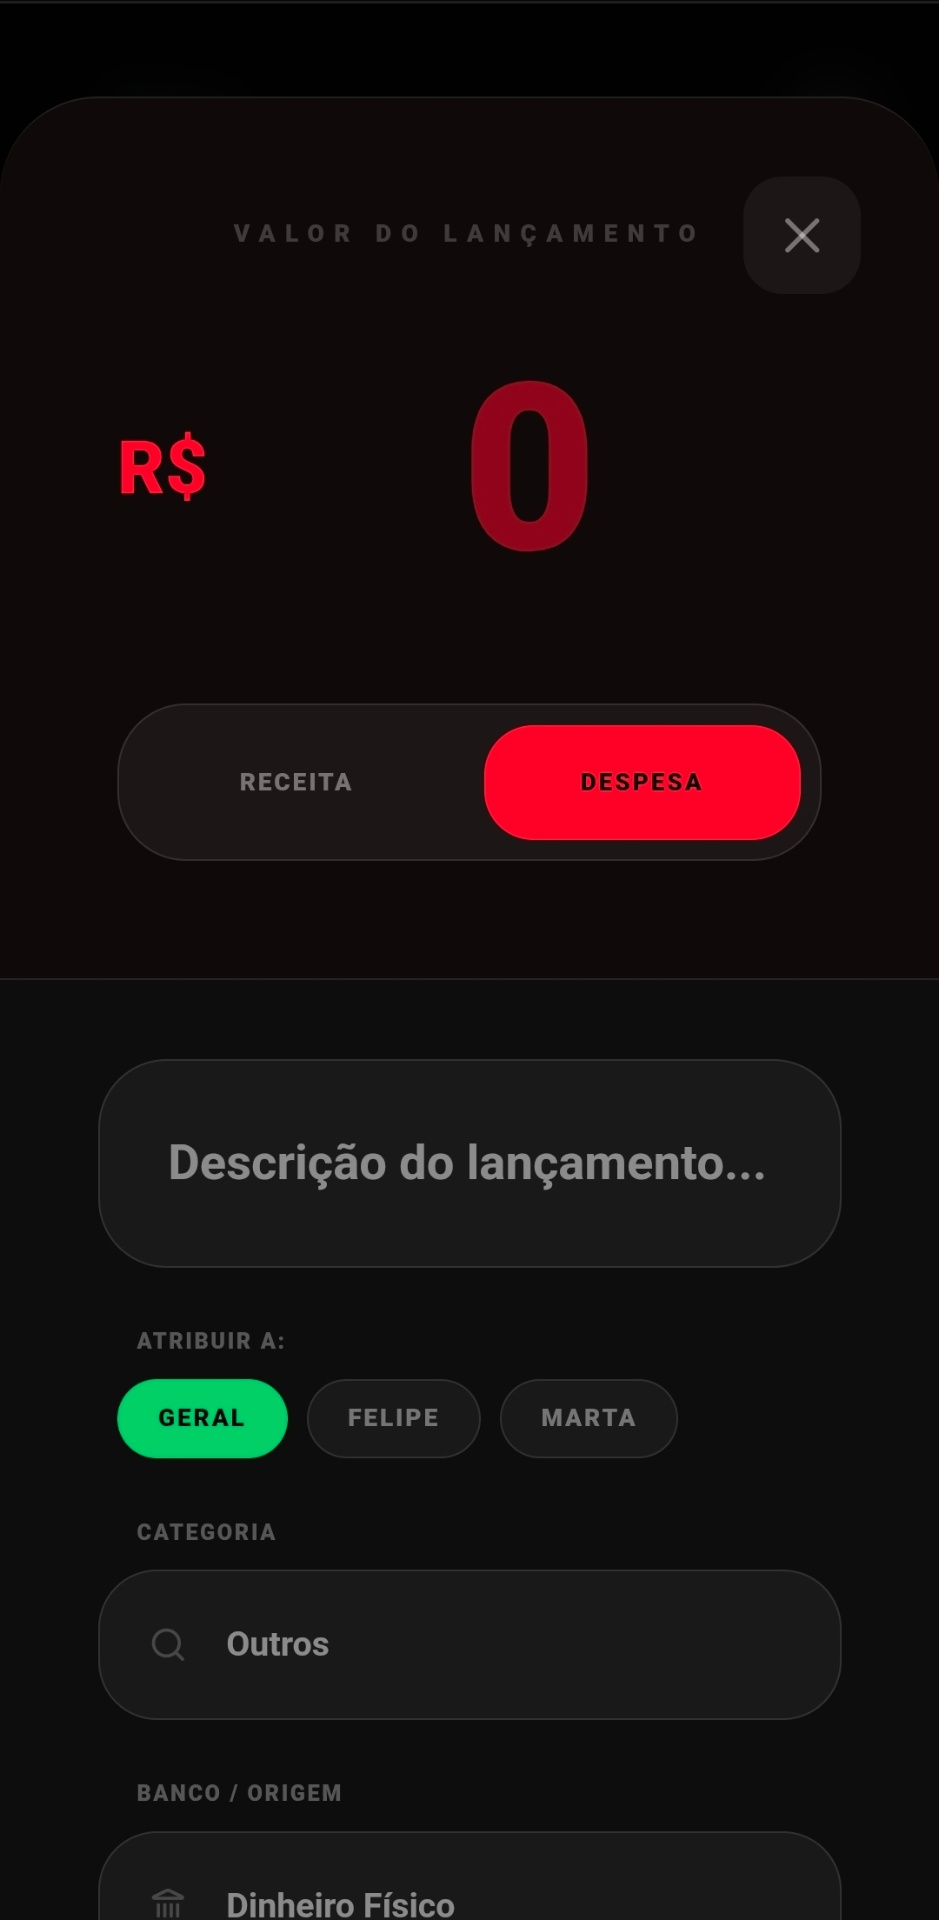
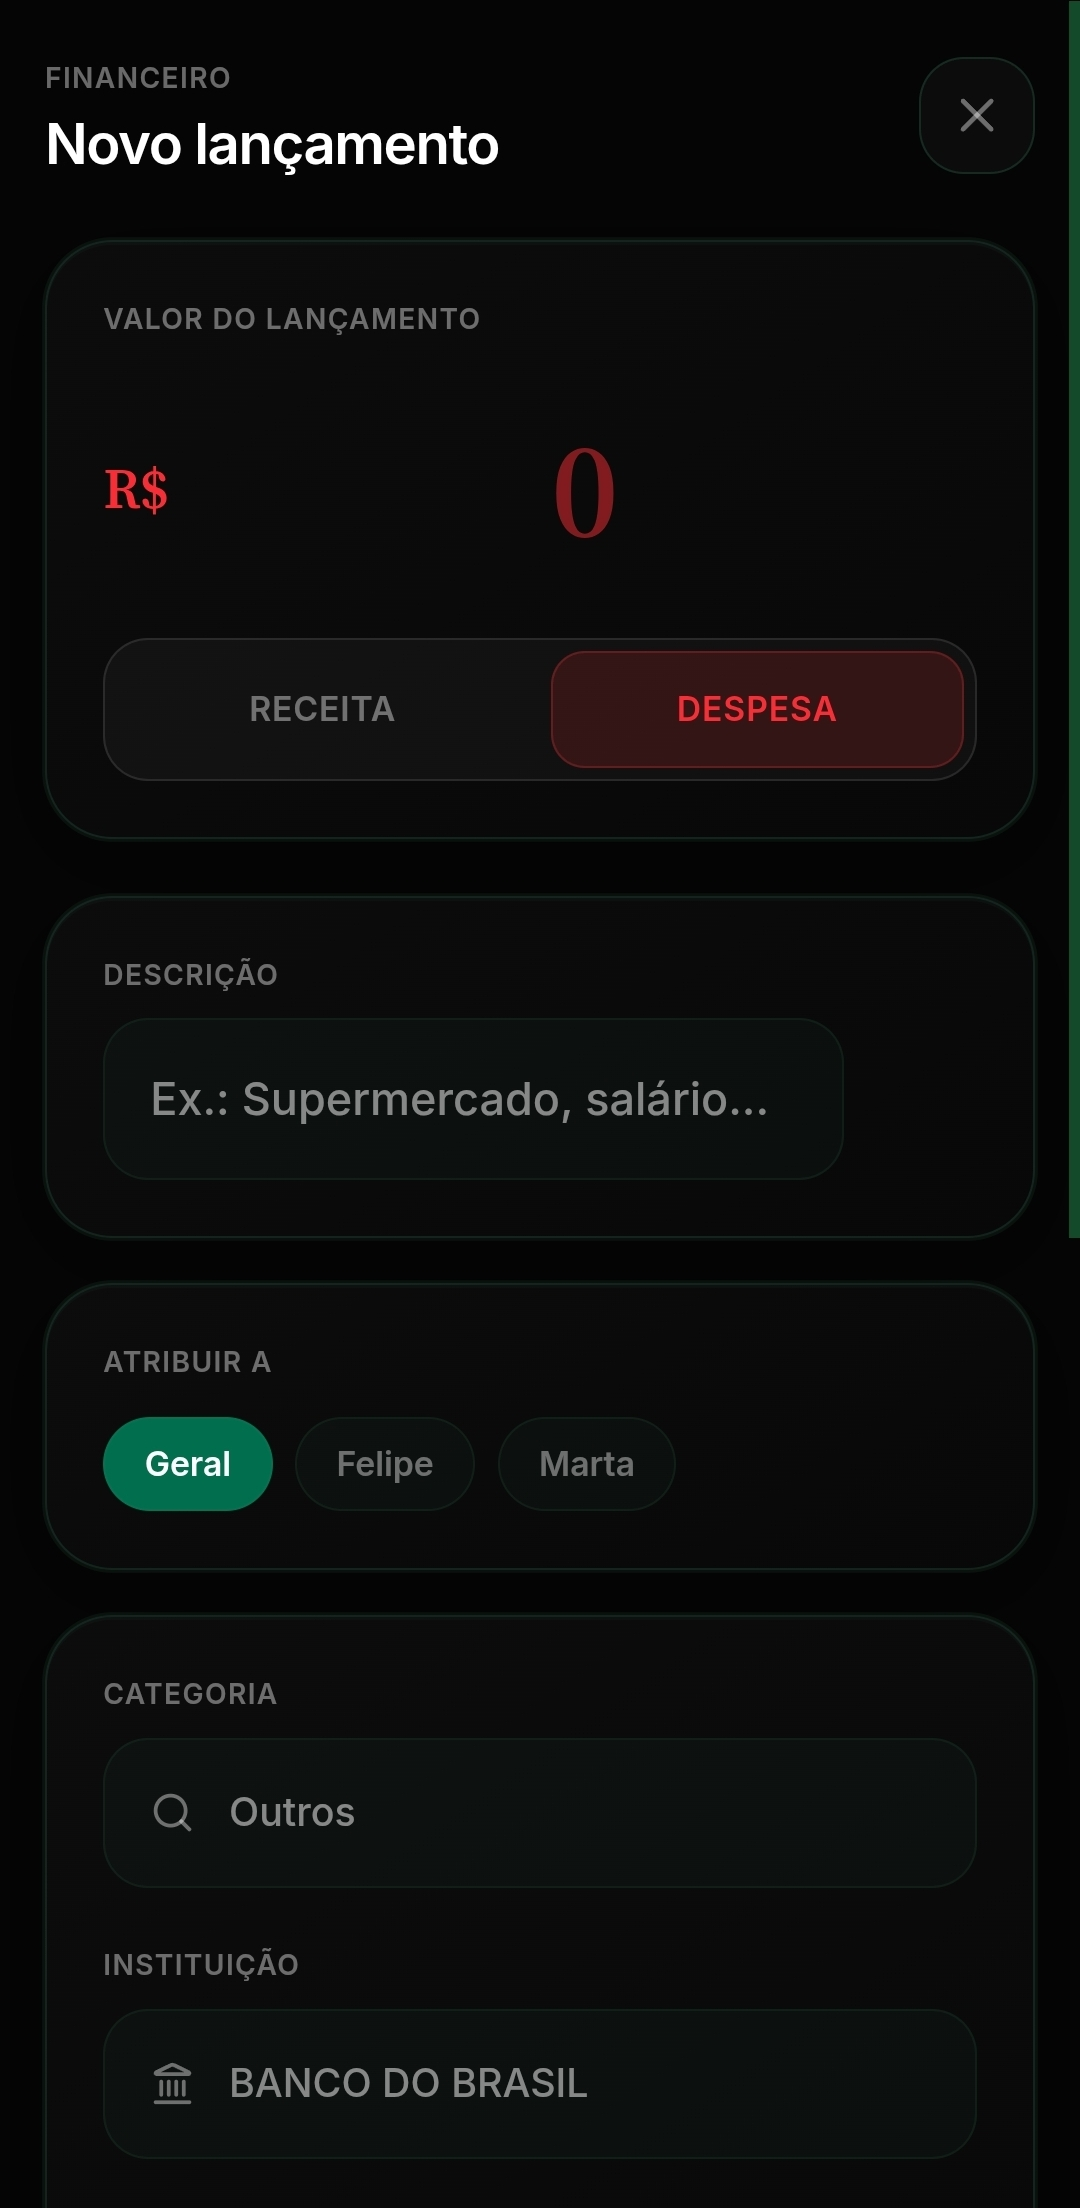
pvnew

diff --git a/src/App.tsx b/src/App.tsx
@@ -6,8 +6,61 @@ import {
   Smartphone, 
   Lock,
   Sparkles,
-  BarChart3
+  BarChart3,
+  Calendar,
+  ListChecks,
+  Layers
 } from "lucide-react";
+
+type IPhoneMockupProps = {
+  src: string;
+  alt: string;
+  priority?: boolean;
+  tilt?: 'left' | 'right' | 'none';
+};
+
+function IPhoneMockup({ src, alt, priority = false, tilt = 'none' }: IPhoneMockupProps) {
+  const tiltClass =
+    tilt === 'left'
+      ? '-rotate-2 sm:-rotate-[4deg] md:-rotate-[6deg]'
+      : tilt === 'right'
+        ? 'rotate-2 sm:rotate-[4deg] md:rotate-[6deg]'
+        : '';
+
+  return (
+    <div
+      className={`relative mx-auto w-full max-w-[220px] sm:max-w-[260px] md:max-w-[280px] ${tiltClass} transition-transform duration-300 hover:rotate-0`}
+    >
+      <div
+        className="absolute inset-6 sm:inset-8 rounded-[40px] bg-[#22C55E]/[0.07] blur-2xl pointer-events-none"
+        aria-hidden
+      />
+      <div className="relative rounded-[42px] sm:rounded-[44px] p-[2px] bg-gradient-to-b from-[#454545] via-[#1c1c1c] to-[#080808] shadow-[0_28px_56px_-14px_rgba(0,0,0,0.85)]">
+        <div className="rounded-[40px] sm:rounded-[42px] bg-[#050505] p-[9px] sm:p-[10px] border border-white/[0.07]">
+          <div className="relative rounded-[30px] sm:rounded-[32px] overflow-hidden bg-[#050505] aspect-[9/19.5]">
+            <div
+              className="absolute top-2.5 sm:top-3 left-1/2 -translate-x-1/2 z-20 w-[32%] max-w-[100px] h-[22px] sm:h-[26px] bg-[#050505] rounded-full border border-white/[0.08] shadow-[inset_0_1px_2px_rgba(255,255,255,0.06)]"
+              aria-hidden
+            />
+            <img
+              src={src}
+              alt={alt}
+              width={390}
+              height={844}
+              className="w-full h-full object-cover object-top"
+              loading={priority ? 'eager' : 'lazy'}
+              decoding="async"
+              {...(priority ? { fetchPriority: 'high' as const } : { fetchPriority: 'low' as const })}
+            />
+          </div>
+        </div>
+        <div className="absolute -right-[2px] top-[26%] w-[3px] h-[11%] bg-[#2a2a2a] rounded-r-sm opacity-80" aria-hidden />
+        <div className="absolute -left-[2px] top-[20%] w-[3px] h-[7%] bg-[#2a2a2a] rounded-l-sm opacity-60" aria-hidden />
+        <div className="absolute -left-[2px] top-[30%] w-[3px] h-[11%] bg-[#2a2a2a] rounded-l-sm opacity-60" aria-hidden />
+      </div>
+    </div>
+  );
+}
 
 export default function App() {
   const [currentPage, setCurrentPage] = useState<'vendas' | 'obrigado'>('vendas');
@@ -188,12 +241,12 @@ export default function App() {
             <span className="text-[9px] sm:text-[10px] font-extrabold uppercase tracking-widest text-white/80">Seu Consultor Estratégico IA 24h</span>
           </div>
           
-          <h1 className="text-3xl sm:text-5xl font-extrabold uppercase tracking-tight text-white leading-[1.2] mb-6 max-w-3xl mx-auto">
-            Saiba se sua empresa está lucrando ou se você está <span className="text-[#22C55E]">pagando para trabalhar</span> em menos de 1 minuto.
+          <h1 className="text-2xl sm:text-4xl md:text-5xl font-extrabold uppercase tracking-tight text-white leading-[1.2] mb-6 max-w-3xl mx-auto">
+            O Sistema Operacional do Empreendedor: <span className="text-[#22C55E]">Finanças, Rotinas e Agenda</span> em um único lugar.
           </h1>
           
           <p className="text-xs sm:text-sm text-muted-foreground max-w-xl mx-auto mb-8 sm:mb-10 font-medium leading-relaxed">
-            O Sommar processa seus extratos automaticamente, separa o CPF do CNPJ e te entrega o lucro real. <span className="text-[#22C55E]">Sem planilhas, sem erros e sem perda de tempo.</span>
+            Pare de alternar entre apps de banco, agenda e tarefas. O Sommar centraliza sua rotina, separa CPF do CNPJ e te entrega o lucro real — <span className="text-[#22C55E]">sem planilhas, sem erros e sem perda de tempo.</span>
           </p>
 
           {/* VÍDEO DE DEMONSTRAÇÃO COMPATÍVEL MOBILE */}
@@ -201,7 +254,7 @@ export default function App() {
             <div className="relative w-full pb-[56.25%] h-0 rounded-xl overflow-hidden">
               <iframe 
                 className="absolute top-0 left-0 w-full h-full border-0"
-                src="https://www.youtube.com/embed/YfYAfW8kFO4" 
+                src="https://youtu.be/2jtToi2wIps?si=0MYdkyZNUdvxsjRQ" 
                 title="Vídeo de demonstração Sommar App"
                 allow="accelerometer; autoplay; clipboard-write; encrypted-media; gyroscope; picture-in-picture; web-share" 
                 allowFullScreen
@@ -269,11 +322,7 @@ export default function App() {
               </button>
             </div>
             
-            {/* MOCK CELULAR 1 */}
-            <div className="relative mx-auto w-full max-w-[280px] h-[560px] bg-[#000] border-[10px] border-[#1a1a1a] rounded-[40px] shadow-2xl card-glow overflow-hidden">
-              <div className="absolute top-0 left-1/2 -translate-x-1/2 w-32 h-6 bg-[#1a1a1a] rounded-b-2xl z-20"></div>
-              <img src="/lancar-sommar.jpg" alt="Interface de Lançamentos Sommar" className="w-full h-full object-cover rounded-[30px]" />
-            </div>
+            <IPhoneMockup src="/lancar-sommar.jpg" alt="Interface de Lançamentos Sommar" tilt="right" />
           </div>
         </section>
 
@@ -345,11 +394,7 @@ export default function App() {
               </button>
             </div>
             
-            {/* MOCK CELULAR 2 */}
-            <div className="relative mx-auto w-full max-w-[280px] h-[560px] bg-[#000] border-[10px] border-[#1a1a1a] rounded-[40px] shadow-2xl card-glow overflow-hidden">
-              <div className="absolute top-0 left-1/2 -translate-x-1/2 w-32 h-6 bg-[#1a1a1a] rounded-b-2xl z-20"></div>
-              <img src="/marinho-sommar.jpg" alt="Assistente Virtual Marinho Inteligência Financeira" className="w-full h-full object-cover rounded-[30px]" />
-            </div>
+            <IPhoneMockup src="/marinho-sommar.jpg" alt="Assistente Virtual Marinho Inteligência Financeira" tilt="left" />
           </div>
         </section>
 
@@ -395,10 +440,136 @@ export default function App() {
               </button>
             </div>
             
-            {/* MOCK CELULAR 3 */}
-            <div className="relative mx-auto w-full max-w-[280px] h-[560px] bg-[#000] border-[10px] border-[#1a1a1a] rounded-[40px] shadow-2xl card-glow overflow-hidden">
-              <div className="absolute top-0 left-1/2 -translate-x-1/2 w-32 h-6 bg-[#1a1a1a] rounded-b-2xl z-20"></div>
-              <img src="/resumo-sommar.jpg" alt="Análise de Dados Gráficos Finanças" className="w-full h-full object-cover rounded-[30px]" />
+            <IPhoneMockup src="/resumo-sommar.jpg" alt="Análise de Dados Gráficos Finanças" tilt="right" />
+          </div>
+        </section>
+
+        {/* ECOSSISTEMA SOMMAR — ROTINAS & COMPROMISSOS */}
+        <section className="border-t border-b border-border/40 bg-[#050505] py-20 px-4">
+          <div className="max-w-4xl mx-auto">
+            <div className="text-center max-w-2xl mx-auto mb-16">
+              <span className="text-[10px] font-extrabold text-[#22C55E] border border-[#22C55E]/20 bg-[#22C55E]/5 px-3 py-1 rounded-full uppercase tracking-widest inline-flex items-center gap-1.5">
+                <Layers className="w-3 h-3" /> Ecossistema Sommar
+              </span>
+              <h2 className="text-2xl sm:text-3xl font-extrabold text-white uppercase tracking-tight mt-4">
+                Um só app. <span className="text-[#22C55E]">Toda a sua operação.</span>
+              </h2>
+              <p className="text-xs sm:text-sm text-muted-foreground mt-3 leading-relaxed font-medium">
+                Você não precisa de três ferramentas diferentes. Finanças, rotinas e agenda vivem no mesmo sistema — o sistema operacional da sua rotina.
+              </p>
+            </div>
+
+            {/* Rotinas — Consistência */}
+            <div className="grid md:grid-cols-2 gap-10 md:gap-14 items-center mb-20 md:mb-24">
+              <div className="order-2 md:order-1 space-y-4 text-center md:text-left">
+                <div className="inline-flex items-center gap-2 px-3 py-1.5 rounded-lg border border-border bg-[#050505] text-[#22C55E]">
+                  <ListChecks className="w-4 h-4" strokeWidth={1.75} />
+                  <span className="text-[10px] font-extrabold uppercase tracking-widest">Rotinas</span>
+                </div>
+                <h3 className="text-xl sm:text-2xl font-extrabold text-white uppercase tracking-tight">
+                  <span className="text-[#22C55E]">Consistência</span> que vira resultado
+                </h3>
+                <p className="text-xs sm:text-sm text-muted-foreground leading-relaxed font-medium max-w-md mx-auto md:mx-0">
+                  Não é sobre trabalhar mais, é sobre fazer o que importa. Gerencie suas tarefas diárias com a mesma precisão do seu financeiro.
+                </p>
+              </div>
+              <div className="order-1 md:order-2 flex justify-center md:justify-end px-2 sm:px-0">
+                <IPhoneMockup
+                  src="/rotinas-sommar.jpg"
+                  alt="Módulo de Rotinas Sommar App"
+                  tilt="right"
+                />
+              </div>
+            </div>
+
+            {/* Compromissos — Controle */}
+            <div className="grid md:grid-cols-2 gap-10 md:gap-14 items-center">
+              <div className="flex justify-center md:justify-start px-2 sm:px-0">
+                <IPhoneMockup
+                  src="/compromissos-sommar.jpg"
+                  alt="Módulo de Compromissos e Agenda Sommar App"
+                  tilt="left"
+                />
+              </div>
+              <div className="space-y-4 text-center md:text-left">
+                <div className="inline-flex items-center gap-2 px-3 py-1.5 rounded-lg border border-border bg-[#050505] text-[#22C55E]">
+                  <Calendar className="w-4 h-4" strokeWidth={1.75} />
+                  <span className="text-[10px] font-extrabold uppercase tracking-widest">Compromissos</span>
+                </div>
+                <h3 className="text-xl sm:text-2xl font-extrabold text-white uppercase tracking-tight">
+                  <span className="text-[#22C55E]">Controle</span> total do seu tempo
+                </h3>
+                <p className="text-xs sm:text-sm text-muted-foreground leading-relaxed font-medium max-w-md mx-auto md:mx-0">
+                  Seu tempo é seu maior ativo. Centralize sua agenda e nunca mais perca um prazo ou oportunidade de negócio.
+                </p>
+                <button
+                  onClick={scrollToPricing}
+                  className="w-full sm:w-auto inline-flex items-center justify-center gap-2 bg-gradient-to-r from-[#22C55E] to-[#4ADE80] text-black font-extrabold text-xs uppercase tracking-widest px-6 py-4 rounded-xl shadow-lg shadow-[#22C55E]/10 hover:scale-[1.02] transition-all"
+                >
+                  QUERO O ECOSSISTEMA COMPLETO <ArrowRight className="w-4 h-4" />
+                </button>
+              </div>
+            </div>
+          </div>
+        </section>
+
+        {/* POR QUE O SOMMAR? */}
+        <section className="max-w-4xl mx-auto px-4 py-20 border-b border-border/40">
+          <div className="text-center max-w-xl mx-auto mb-14">
+            <span className="text-[10px] font-extrabold text-[#22C55E] border border-[#22C55E]/20 bg-[#22C55E]/5 px-3 py-1 rounded-full uppercase tracking-widest">Diferenciais</span>
+            <h2 className="text-2xl sm:text-3xl font-extrabold text-white uppercase tracking-tight mt-4">
+              Por que o <span className="text-[#22C55E]">Sommar?</span>
+            </h2>
+            <p className="text-xs text-muted-foreground mt-2 leading-relaxed font-medium">
+              Tudo o que você precisa para operar como empreendedor — sem fragmentar sua rotina em apps isolados.
+            </p>
+          </div>
+
+          <div className="grid sm:grid-cols-2 lg:grid-cols-3 gap-4 max-w-3xl mx-auto">
+            <div className="p-5 rounded-xl border border-[#22C55E]/25 bg-[#050505] space-y-2 sm:col-span-2 lg:col-span-1 lg:row-span-1">
+              <div className="w-9 h-9 rounded-lg border border-[#22C55E]/20 bg-[#22C55E]/5 flex items-center justify-center text-[#22C55E]">
+                <Layers className="w-4 h-4" strokeWidth={1.75} />
+              </div>
+              <span className="text-[10px] font-bold text-[#22C55E] uppercase tracking-wider block">Integração total</span>
+              <p className="text-xs text-muted-foreground font-medium leading-relaxed">
+                O impacto das suas tarefas diárias refletido direto no seu fluxo de caixa.
+              </p>
+            </div>
+            <div className="p-5 rounded-xl border border-border bg-[#050505] space-y-2">
+              <div className="w-9 h-9 rounded-lg border border-border bg-white/[0.02] flex items-center justify-center text-[#22C55E]">
+                <CheckCircle2 className="w-4 h-4" strokeWidth={1.75} />
+              </div>
+              <span className="text-[10px] font-bold text-white/80 uppercase tracking-wider block">CPF × CNPJ blindado</span>
+              <p className="text-xs text-muted-foreground font-medium leading-relaxed">
+                Separação real entre vida pessoal e empresarial, com lucro e margem automáticos.
+              </p>
+            </div>
+            <div className="p-5 rounded-xl border border-border bg-[#050505] space-y-2">
+              <div className="w-9 h-9 rounded-lg border border-border bg-white/[0.02] flex items-center justify-center text-[#22C55E]">
+                <Sparkles className="w-4 h-4" strokeWidth={1.75} />
+              </div>
+              <span className="text-[10px] font-bold text-white/80 uppercase tracking-wider block">Marinho IA 24h</span>
+              <p className="text-xs text-muted-foreground font-medium leading-relaxed">
+                Lançamentos em massa via chat — sem formulários engessados.
+              </p>
+            </div>
+            <div className="p-5 rounded-xl border border-border bg-[#050505] space-y-2">
+              <div className="w-9 h-9 rounded-lg border border-border bg-white/[0.02] flex items-center justify-center text-[#22C55E]">
+                <Smartphone className="w-4 h-4" strokeWidth={1.75} />
+              </div>
+              <span className="text-[10px] font-bold text-white/80 uppercase tracking-wider block">PWA premium</span>
+              <p className="text-xs text-muted-foreground font-medium leading-relaxed">
+                Acesso instantâneo no celular, sem ocupar espaço com downloads pesados.
+              </p>
+            </div>
+            <div className="p-5 rounded-xl border border-border bg-[#050505] space-y-2">
+              <div className="w-9 h-9 rounded-lg border border-border bg-white/[0.02] flex items-center justify-center text-[#22C55E]">
+                <Lock className="w-4 h-4" strokeWidth={1.75} />
+              </div>
+              <span className="text-[10px] font-bold text-white/80 uppercase tracking-wider block">Segurança bancária</span>
+              <p className="text-xs text-muted-foreground font-medium leading-relaxed">
+                Criptografia TLS e armazenamento isolado para seus dados financeiros.
+              </p>
             </div>
           </div>
         </section>